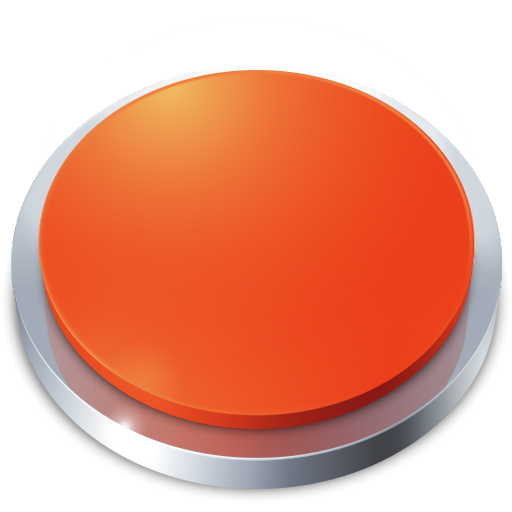
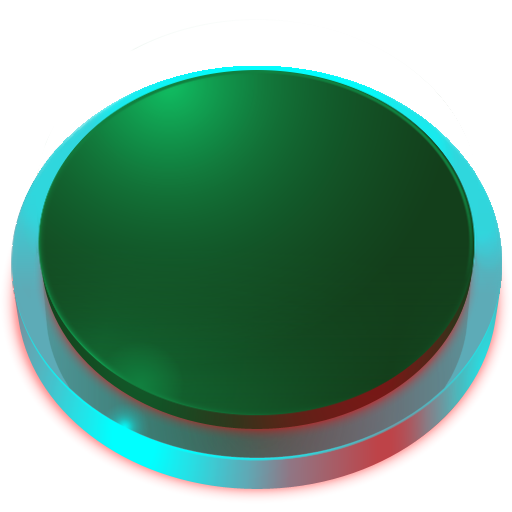
Add new button

diff --git a/html/client.html b/html/client.html
@@ -64,14 +64,17 @@ window.addEventListener("load", function(evt) {
 });
 
 function touchHandlerBreak(e) {
+  var breakimg = document.getElementById("breakimg");
   if (e.type == "touchstart") {
     down = true;
     up = false;
+    breakimg.src = "/static/images/button-stop-pressed.png"
   //} else if (e.type == "touchmove") {
   //  alert("You moved your finger!");
   } else if (e.type == "touchend" || e.type == "touchcancel") {
     down = false;
     up = false;
+    breakimg.src = "/static/images/button-stop.png"
   }
 }
 
@@ -104,10 +107,10 @@ window.oncontextmenu = function(event) {
 </script>
 </head>
 <body>
-<h2>Hi, client, this is now your gamepad.</h2>
-Start Moving your gamepad to control the square on the screen
+<h2 style="width: 100%;text-align: center;">Hi, client, this is now your gamepad.</h2>
+<div style="width: 100%;text-align: center;">Start Moving your gamepad to control the square on the screen</div>
 <div style="display:flex">
-<div id="break" style="background-color:red;width:100px; height:100px"> </div>
+<div id="break"><img style="width:150px; height:150px" id="breakimg" src="/static/images/button-stop.png"/></div>
 <div style="display:flex; width:80%;"></div>
 <div id="run"><img style="width:150px; height:150px" id="runimg" src="/static/images/button-go.png"/></div>
 </div>
